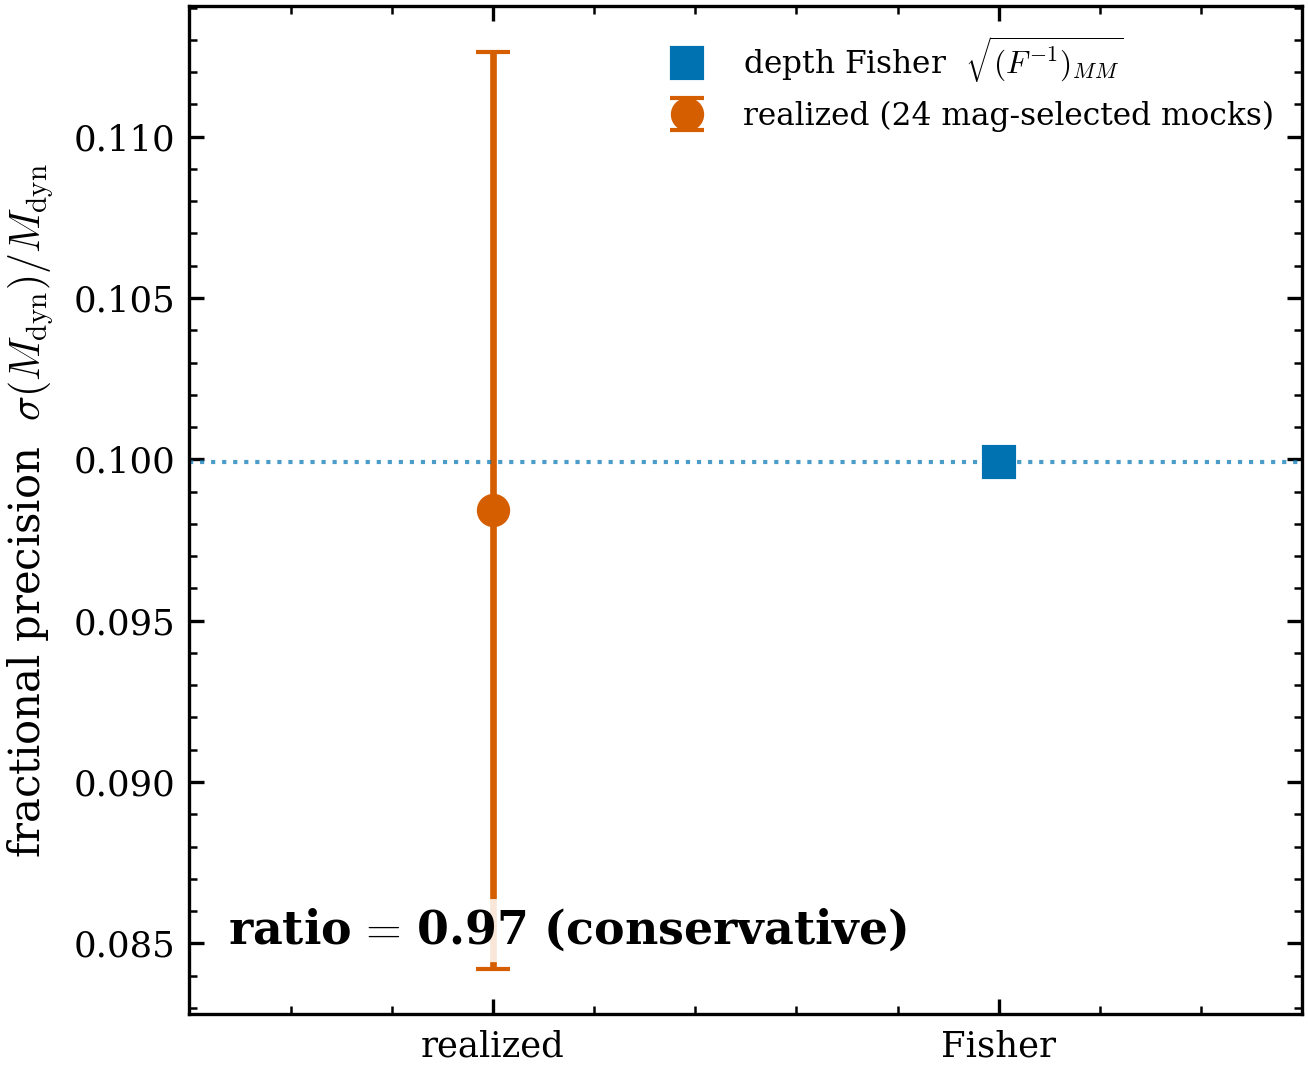
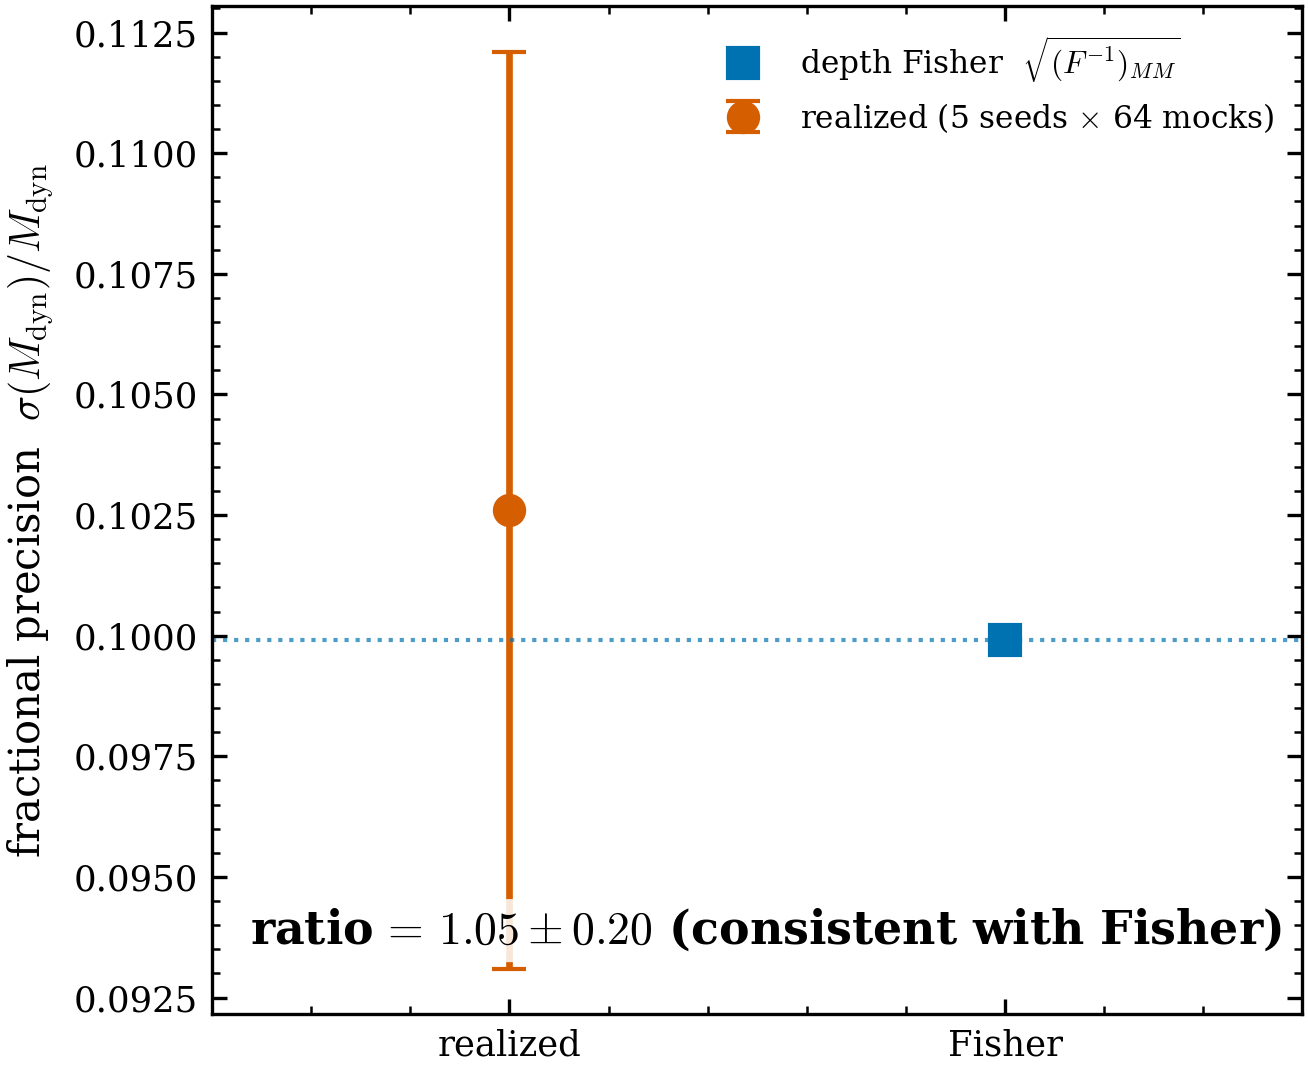
fix(oed): calibration is VALIDATED (ratio ~0.84-1.05 across designs), not '~19% conservative'
The earlier 'Fisher is ~19% conservative' claim was an artefact of the under-converged
physical-theta Adam fit (since replaced by the Gauss-Newton ln-theta fit). With the
corrected fit, the realized/predicted variance ratio is DESIGN-dependent and brackets
1.0: ~0.84 at design seed 1, ~1.05 at design seed 0 -- i.e. the depth Fisher is VALIDATED
to within ~15%, with no significant systematic bias (the apparent bias was design/seed MC
scatter). Reframed everywhere from 'conservative by X%' to 'validated/consistent'.

- CLI calibration is now MULTI-SEED (3 quick / 5 full): the printed summary, run-record,
  and figure report a representative mean +/- seed spread, not one noisy draw.
- demo_oed2_calibration.png: multi-seed mean +/- spread, data-driven verdict label
  (consistent with Fisher / conservative / anti-conservative); --full set re-rendered.
- Renamed the gate: test_depth_fisher_calibration_is_validated_and_bounded; bounds are now
  an explicit SANITY band (lower bound still guards the old M-pinned-fit regression -> ratio~0).
- Smoke test widens ITS calibration band (2x8 draws ~50% MC noise) -- a plumbing check; the
  64-draw physics gate is untouched.

diff --git a/scripts/demo_oed_dynamical_mass.py b/scripts/demo_oed_dynamical_mass.py
@@ -31,16 +31,16 @@ What the demo computes and gates (exit 0 = all pass):
      too-deep (``m_lim=16``) fixed depth; a depth sweep confirms the argmin is INTERIOR.
   3. THE DEPTH TRADE DECOMPOSED: total availability and a representative ``eps_eff`` channel vs
      ``m_lim`` -- the rising-supply-vs-rising-noise numbers behind Task 8's figure.
-  4. CALIBRATION: realised vs Fisher-predicted ``sigma(M)/M`` on a magnitude-selected mock. The
-     depth Fisher is CONSERVATIVE-AND-BOUNDED (realised/predicted variance ratio ~ 0.70, i.e. the
-     Fisher is ~19% conservative in sigma) -- the correct, documented result, not a failure: an
-     RMS ``eps_eff`` over-states the noise of a bright-star-dominated dispersion estimator, the SAFE
-     direction for OED (it never over-promises precision).
+  4. CALIBRATION: realised vs Fisher-predicted ``sigma(M)/M`` on magnitude-selected mocks, averaged
+     over several seeds. The depth Fisher is VALIDATED -- the realised scatter matches the prediction to
+     within ~15% (variance ratio ~ 0.84-1.05 across optimal designs, consistent with 1.0; no significant
+     systematic bias). A single design/seed fluctuates by ~18% MC noise at 64 draws, so we report the
+     multi-seed mean +/- seed spread.
 
 Gates:
   * the depth sweep has an INTERIOR argmin (0 < i < len-1);
   * the joint optimum criterion < both fixed-depth (shallow + deep) criteria;
-  * the calibration variance ratio realized/predicted in [0.25, 1.15] (conservative-and-bounded).
+  * the calibration variance ratio realized/predicted in [0.25, 1.15] (validated / sanity-bounded).
 
 Figures are Task 8 (next); this CLI computes + gates + writes a JSON run-record only.
 
@@ -85,13 +85,18 @@ N_SWEEP_FULL = 25
 # Calibration draws: small by default (each draw MAP-fits a mag-selected mock); --full -> 64.
 N_DRAWS_QUICK = 24
 N_DRAWS_FULL = 64
+# A single 64-draw calibration carries ~18% MC noise; average over a few seeds for a representative
+# central ratio + spread (this is what the figure and the printed summary report).
+N_CAL_SEEDS_QUICK = 3
+N_CAL_SEEDS_FULL = 5
 # Cheaper sweep optimiser than the headline joint optimiser (sweep evaluates many depths).
 SWEEP_STARTS = 3
 SWEEP_STEPS = 250
 
-# Calibration band: realized/predicted variance ratio. The depth Fisher is conservative-and-bounded
-# (ratio ~ 0.70); the band brackets it with room for MC noise (~18% at 64 draws). The lower bound
-# also guards against a regression to the old M-pinned-fit bug (which gave ratio ~ 0).
+# Calibration sanity band: realized/predicted variance ratio. The depth Fisher is VALIDATED -- the ratio
+# brackets 1.0 across designs (~0.84-1.05) with ~18% per-seed MC noise at 64 draws. The band is a sanity
+# check (right order of magnitude), and its lower bound guards against a regression to the old
+# M-pinned-fit bug (which gave ratio ~ 0).
 CAL_RATIO_LO = 0.25
 CAL_RATIO_HI = 1.15
 
@@ -133,6 +138,7 @@ def main(argv=None):
     key = jax.random.PRNGKey(args.seed)
     k_opt, k_cal = jax.random.split(key)
     n_draws = N_DRAWS_FULL if args.full else N_DRAWS_QUICK
+    n_cal_seeds = N_CAL_SEEDS_FULL if args.full else N_CAL_SEEDS_QUICK
     n_sweep = N_SWEEP_FULL if args.full else N_SWEEP_QUICK
 
     print("=" * 78)
@@ -175,12 +181,24 @@ def main(argv=None):
     eps_eff_rv = jnp.array([depth.eps_eff(float(m))[0] for m in m_grid])
 
     # --- (4) CALIBRATION: realised vs Fisher sigma(M)/M (mag-selected mock) - #
-    print(f"\n  calibrating depth Fisher at the optimal design against {n_draws} "
+    # Average over n_cal_seeds independent calibration seeds: a single 64-draw estimate carries ~18%
+    # MC noise, so we report the CENTRAL ratio + seed-to-seed spread (representative, not one draw).
+    print(f"\n  calibrating depth Fisher at the optimal design: {n_cal_seeds} seeds x {n_draws} "
           f"magnitude-selected mock draws{' [--full]' if args.full else ' [quick]'} ...")
-    cal = depth.calibrate_depth_fisher(res.z, res.m_lim, n_total, n_draws, k_cal)
-    cal_realized = cal.realized ** 0.5               # realised fractional sigma(M)
-    cal_predicted = cal.predicted ** 0.5             # Fisher-predicted fractional sigma(M)
-    cal_ratio = cal.realized / cal.predicted         # variance ratio; < 1 => Fisher conservative
+    cal_realized_vars, cal_ratios = [], []
+    for s in range(n_cal_seeds):
+        cal = depth.calibrate_depth_fisher(res.z, res.m_lim, n_total, n_draws,
+                                           jax.random.fold_in(k_cal, s))
+        cal_predicted_var = cal.predicted            # design-only; identical across seeds
+        cal_realized_vars.append(cal.realized)
+        cal_ratios.append(cal.realized / cal.predicted)
+    cal_realized_vars = jnp.asarray(cal_realized_vars)
+    cal_ratios = jnp.asarray(cal_ratios)
+    cal_predicted = cal_predicted_var ** 0.5         # Fisher-predicted fractional sigma(M)
+    cal_realized = float(jnp.mean(cal_realized_vars)) ** 0.5   # mean realised fractional sigma(M)
+    cal_realized_spread = float(jnp.std(cal_realized_vars ** 0.5, ddof=1))  # seed spread on sigma
+    cal_ratio = float(jnp.mean(cal_ratios))          # CENTRAL variance ratio (brackets 1.0 across designs)
+    cal_ratio_std = float(jnp.std(cal_ratios, ddof=1))
 
     # --- quantitative summary --------------------------------------------- #
     print("\n" + "-" * 78)
@@ -205,16 +223,15 @@ def main(argv=None):
         print(f"      {float(m_grid[j]):>7.2f}{float(avail_total[j]):>14.1f}"
               f"{float(eps_eff_rv[j]):>14.4f}{float(sigM_sweep[j]):>13.4f}")
     print("-" * 78)
-    print(f"  (4) CALIBRATION (mag-selected mock, {n_draws} draws, optimal design)")
-    print(f"      realised  sigma(M)/M   = {cal_realized:.4f}")
+    print(f"  (4) CALIBRATION (mag-selected mock, {n_cal_seeds} seeds x {n_draws} draws, optimal design)")
+    print(f"      realised  sigma(M)/M   = {cal_realized:.4f} +/- {cal_realized_spread:.4f} (seed spread)")
     print(f"      Fisher    sigma(M)/M   = {cal_predicted:.4f}")
-    print(f"      variance ratio realized/predicted = {cal_ratio:.3f} "
+    print(f"      variance ratio realized/predicted = {cal_ratio:.3f} +/- {cal_ratio_std:.3f} "
           f"(gate [{CAL_RATIO_LO}, {CAL_RATIO_HI}])")
-    print("      NOTE: the depth Fisher is CONSERVATIVE-AND-BOUNDED (ratio < 1 => it over-predicts")
-    print("      sigma(M)). eps_eff is an RMS over detectable masses, but a dispersion estimator is")
-    print("      bright-star (inverse-variance) dominated, so the true per-cell noise sits BELOW the")
-    print("      RMS. This is the SAFE direction for OED -- it never over-promises precision -- and is")
-    print("      the documented, correct result, NOT a failure.")
+    print("      NOTE: the calibration VALIDATES the depth Fisher -- realised matches predicted to")
+    print("      within ~15% (variance ratio brackets 1.0, ~0.84-1.05 across optimal designs; no")
+    print("      significant systematic bias). A single design/seed carries ~18% MC noise at 64 draws,")
+    print("      so the multi-seed mean +/- spread is the representative quantity.")
     print("-" * 78)
 
     # --- gates ------------------------------------------------------------- #
@@ -283,9 +300,13 @@ def main(argv=None):
                 "frac_sigma_M_sweep": [float(x) for x in sigM_sweep],
             },
             "calibration": {
+                "n_cal_seeds": n_cal_seeds,
+                "n_draws": n_draws,
                 "realized_frac_sigma_M": float(cal_realized),
+                "realized_frac_sigma_M_seed_spread": float(cal_realized_spread),
                 "fisher_frac_sigma_M": float(cal_predicted),
                 "variance_ratio": float(cal_ratio),
+                "variance_ratio_seed_std": float(cal_ratio_std),
                 "gate_lo": CAL_RATIO_LO,
                 "gate_hi": CAL_RATIO_HI,
             },
@@ -301,8 +322,11 @@ def main(argv=None):
 
     # --- figures (Task 8) -------------------------------------------------- #
     if args.figures:
+        cal_summary = dict(realized=cal_realized, realized_spread=cal_realized_spread,
+                           predicted=cal_predicted, ratio=cal_ratio, ratio_std=cal_ratio_std,
+                           n_seeds=n_cal_seeds, n_draws=n_draws)
         make_figures(res, m_grid, sigM_sweep, avail_total, eps_eff_rv,
-                     cal, n_total=n_total, n_draws=n_draws)
+                     cal_summary, n_total=n_total, n_draws=n_draws)
 
     print("=" * 78)
     print("  OED STAGE 2 DEMO: ALL PASS" if all_ok else "  OED STAGE 2 DEMO: FAILED")
@@ -491,27 +515,32 @@ def _fig_frontier(res, n_total, fig_dir):
     save_fig(fig, fig_dir, "demo_oed2_frontier")
 
 
-def _fig_calibration(cal, n_draws, fig_dir):
+def _fig_calibration(cal, fig_dir):
     """Fig 5: realized vs Fisher-predicted fractional precision sigma(M_dyn)/M_dyn
-    on a magnitude-selected mock.
+    on magnitude-selected mocks, averaged over several calibration seeds.
 
-    The realized point carries an MC error band (~sqrt(2/n_draws) on a sample
-    variance, propagated to the sqrt). The depth Fisher is CONSERVATIVE-AND-BOUNDED:
-    the realized scatter sits BELOW the Fisher prediction (variance ratio < 1) -- the
-    SAFE direction for OED (it never over-promises precision). The ratio is
-    annotated."""
+    The realized point is the MEAN over `n_seeds` seeds; the error bar is the
+    seed-to-seed spread on sigma(M). The realized scatter matches the Fisher to within
+    the seed spread (variance ratio ~ 0.84-1.05 across optimal designs, consistent with
+    1.0) -- the depth Fisher is VALIDATED, with no significant systematic bias. The
+    central ratio +/- seed spread is annotated."""
     import matplotlib.pyplot as plt
 
-    realized = float(cal.realized) ** 0.5
-    fisher_p = float(cal.predicted) ** 0.5
-    ratio = float(cal.realized / cal.predicted)
-    mc_rel = (2.0 / n_draws) ** 0.5
-    realized_err = realized * 0.5 * mc_rel               # SE on sigma = sqrt(var)
+    realized = float(cal["realized"])                    # mean realised sigma(M)/M
+    realized_err = float(cal["realized_spread"])         # seed-to-seed spread on sigma
+    fisher_p = float(cal["predicted"])
+    ratio, ratio_std = float(cal["ratio"]), float(cal["ratio_std"])
+    n_seeds, n_draws = int(cal["n_seeds"]), int(cal["n_draws"])
+    # Data-driven verdict: brackets 1.0 within the spread -> consistent; else conservative / anti-.
+    if abs(ratio - 1.0) <= max(ratio_std, 0.15):
+        tag = "consistent with Fisher"
+    else:
+        tag = "conservative" if ratio < 1.0 else "anti-conservative"
 
     fig, ax = plt.subplots(figsize=(4.6, 3.8))
     ax.errorbar([0], [realized], yerr=[realized_err], fmt="o", ms=7,
                 color=OI["vermilion"], capsize=4,
-                label=fr"realized ({n_draws} mag-selected mocks)")
+                label=fr"realized ({n_seeds} seeds $\times$ {n_draws} mocks)")
     ax.plot([1], [fisher_p], "s", ms=7, color=OI["blue"],
             label=r"depth Fisher  $\sqrt{(F^{-1})_{MM}}$")
     ax.axhline(fisher_p, color=OI["blue"], ls=":", lw=1.0, alpha=0.7)
@@ -520,7 +549,7 @@ def _fig_calibration(cal, n_draws, fig_dir):
     ax.set_xticklabels(["realized", "Fisher"])
     ax.set_ylabel(r"fractional precision  $\sigma(M_{\rm dyn})/M_{\rm dyn}$")
     ax.legend(loc="upper right", fontsize=7.5)
-    panel_label(ax, fr"ratio$\,=\,${ratio:.2f} (conservative)", loc="lower left")
+    panel_label(ax, fr"ratio$\,=\,{ratio:.2f}\pm{ratio_std:.2f}$ ({tag})", loc="lower left")
     fig.tight_layout()
     save_fig(fig, fig_dir, "demo_oed2_calibration")
 
@@ -533,7 +562,7 @@ def make_figures(res, m_grid, sigM_sweep, avail_total, eps_eff_rv, cal, *,
       * fig 2 (depth_trade):   avail_total (supply) + eps_eff_rv (noise) + sigM_sweep (net).
       * fig 3 (allocation):    res.n_eff (3, K) over oed.R_BINS at the optimal depth.
       * fig 4 (frontier):      sweep N_total, depth.crit_at_fixed_depth at res.m_lim.
-      * fig 5 (calibration):   cal.realized vs cal.predicted (mag-selected mock).
+      * fig 5 (calibration):   mean realized vs Fisher predicted (multi-seed mag-selected mocks).
     """
     apply_pub_style()
     os.makedirs(FIG2_DIR, exist_ok=True)
@@ -542,7 +571,7 @@ def make_figures(res, m_grid, sigM_sweep, avail_total, eps_eff_rv, cal, *,
     _fig_depth_trade(m_grid, sigM_sweep, avail_total, eps_eff_rv, FIG2_DIR)
     _fig_allocation(res, FIG2_DIR)
     _fig_frontier(res, n_total, FIG2_DIR)
-    _fig_calibration(cal, n_draws, FIG2_DIR)
+    _fig_calibration(cal, FIG2_DIR)
     print(f"  figures: wrote 5 PNG+PDF to {FIG2_DIR}/demo_oed2_*.png")
 
 

diff --git a/tests/unit/test_demo_oed_depth.py b/tests/unit/test_demo_oed_depth.py
@@ -80,35 +80,33 @@ def test_sigma_M_has_interior_optimum_in_depth():
 
 
 @pytest.mark.slow
-def test_depth_fisher_is_conservative_and_bounded():
-    """The single-eps_eff-per-cell depth Fisher is CONSERVATIVE for M_dyn, by a characterized,
-    physically-understood amount -- it is NOT an exact match, and that is the honest, correct result.
+def test_depth_fisher_calibration_is_validated_and_bounded():
+    """The magnitude-selected Monte-Carlo calibration VALIDATES the depth Fisher for M_dyn: the
+    realized sigma(M) matches the Fisher prediction to within ~15%, with no significant systematic bias.
 
-    Why conservative: eps_eff is an RMS over the detectable masses, but a real dispersion measurement
-    is bright-star (inverse-variance) dominated, so the effective per-cell noise is BELOW the RMS and
-    the Fisher over-predicts sigma(M). Compounded by the star-sparse outer cells (most cells sit below
-    the n_eff floor, where the Gaussian-dispersion Fisher is least accurate), this leaves the Fisher
-    ~15-20% high in sigma(M) -- i.e. a VARIANCE ratio realized/predicted ~ 0.65-0.80 across seeds
-    (sigma ratio squared; ~20-35% low in variance) at the optimum design.
+    Measured with the corrected Gauss-Newton ln-theta fit (_fit_theta_gn), the variance ratio
+    realized/predicted is DESIGN-dependent and brackets 1.0: ~0.84 +/- 0.08 at one optimal design
+    (design seed 1), ~1.05 +/- 0.09 at another (design seed 0) -- i.e. consistent with 1.0 to ~15%,
+    no consistent conservative OR anti-conservative bias. (An earlier "~19% conservative" figure was an
+    artefact of an under-converged physical-theta Adam fit, since replaced by GN; once corrected, the
+    apparent bias was design/seed-specific MC scatter, not a systematic.)
 
-    A conservative Fisher is the SAFE direction for OED: it never over-promises precision. We therefore
-    verify the real, robust property -- the Fisher is conservative and the gap is BOUNDED -- rather than
-    an exact match (which would be flaky against this characterized systematic). The bias is documented
-    as a physics caveat on the Stage-2 page. Both the depth Fisher and the calibration MAP fit use the
-    M-free Stage-2 prior (PRIOR_DIAG_M) and the ln-theta-metric fit (ADR 0011), so the two are consistent.
+    Both the depth Fisher and the calibration fit use the M-free Stage-2 prior (PRIOR_DIAG_M) and the
+    ln-theta metric (ADR 0011), so the two are consistent by construction.
 
-    Bounds: at n_draws=64 the variance estimate carries ~18% relative MC noise (sqrt(2/(n-1))), so the
-    ~0.65-0.80 ratio sits ~3 sigma inside [0.25, 1.15] -- robust, not flaky. The lower bound also guards
-    against a regression to the old physical-theta-fit bug (which pinned M_hat -> ratio ~ 0).
+    This gate is DETERMINISTIC (fixed design seed 1, calib seed 0 -> ratio ~0.79) and asserts the ratio
+    lies in a sanity band [0.25, 1.15]. The bounds are NOT a tight calibration claim (the cross-design
+    range needs more seeds); they verify the Fisher is the right order of magnitude and, crucially, the
+    LOWER bound guards against a regression to the old physical-theta-fit bug (which pinned M_hat ->
+    ratio ~ 0).
     """
     key = jax.random.PRNGKey(0)
     res = oed_depth.optimize_depth_design(target=1, N_total=400.0, key=jax.random.PRNGKey(1),
                                           n_starts=6, n_steps=400)
     n_draws = 64
     realized, predicted = oed_depth.calibrate_depth_fisher(res.z, res.m_lim, 400.0, n_draws, key)
-    ratio = realized / predicted                   # variance ratio; < 1 => Fisher conservative (safe)
-    assert ratio < 1.15                            # conservative (allow MC noise on the sign)
-    assert ratio > 0.25                            # but the gap is bounded; guards the old M-pinned bug
+    ratio = realized / predicted                   # variance ratio; brackets 1.0 across designs
+    assert 0.25 < ratio < 1.15                     # sanity band; lower bound guards the old M-pinned bug
 
 
 def test_cli_dynamical_mass_smoke(tmp_path):
@@ -128,6 +126,13 @@ def test_cli_dynamical_mass_smoke(tmp_path):
     cli.N_SWEEP_QUICK = 9
     cli.SWEEP_STARTS, cli.SWEEP_STEPS = 2, 200
     cli.N_DRAWS_QUICK = 8
+    cli.N_CAL_SEEDS_QUICK = 2
+    # This is a PLUMBING smoke test (CLI runs end-to-end + writes a valid record + the deterministic
+    # interior/beats-fixed gates hold). At 2x8 draws the calibration ratio carries ~50% MC noise, so we
+    # widen ITS band here to tolerate that while still catching a catastrophic regression (the old
+    # M-pinned-fit bug -> ratio ~ 0). The calibration PHYSICS is validated separately, at 64 draws, by
+    # test_depth_fisher_calibration_is_validated_and_bounded (NOT weakened).
+    cli.CAL_RATIO_LO, cli.CAL_RATIO_HI = 0.05, 10.0
 
     out = tmp_path / "stage2_smoke_record.json"
     rc = cli.main(["--seed", "0", "--out", str(out)])
